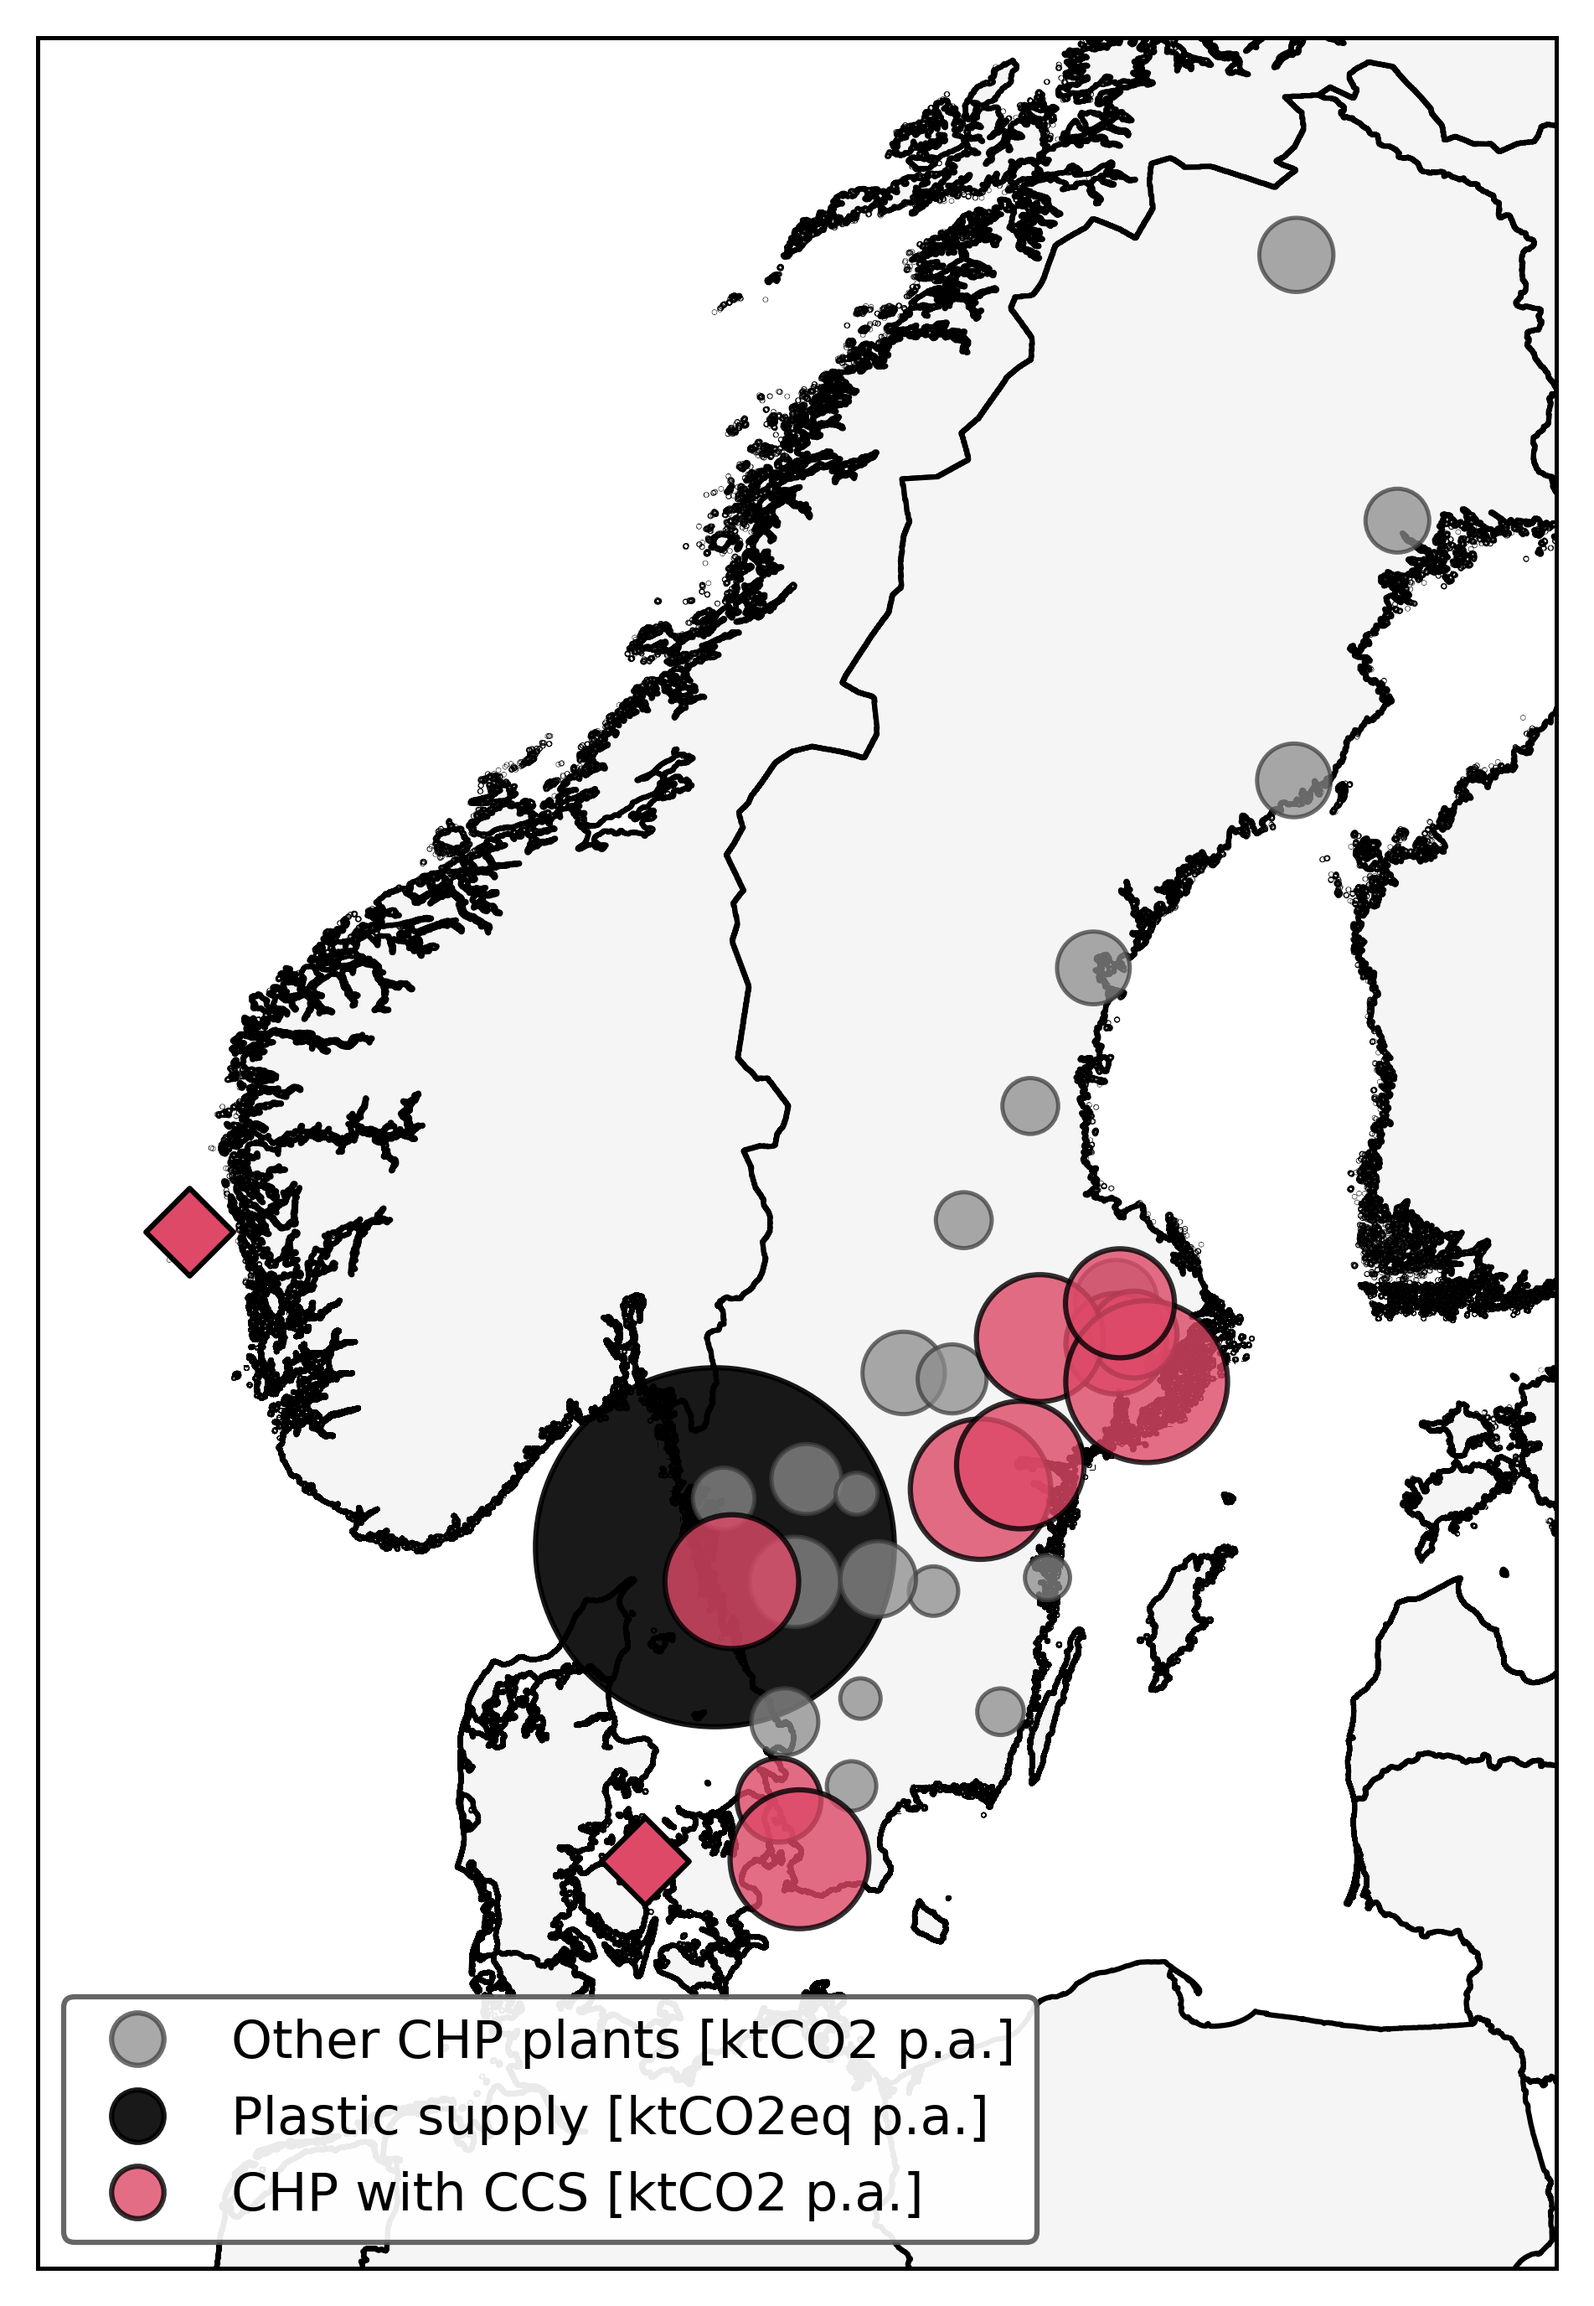
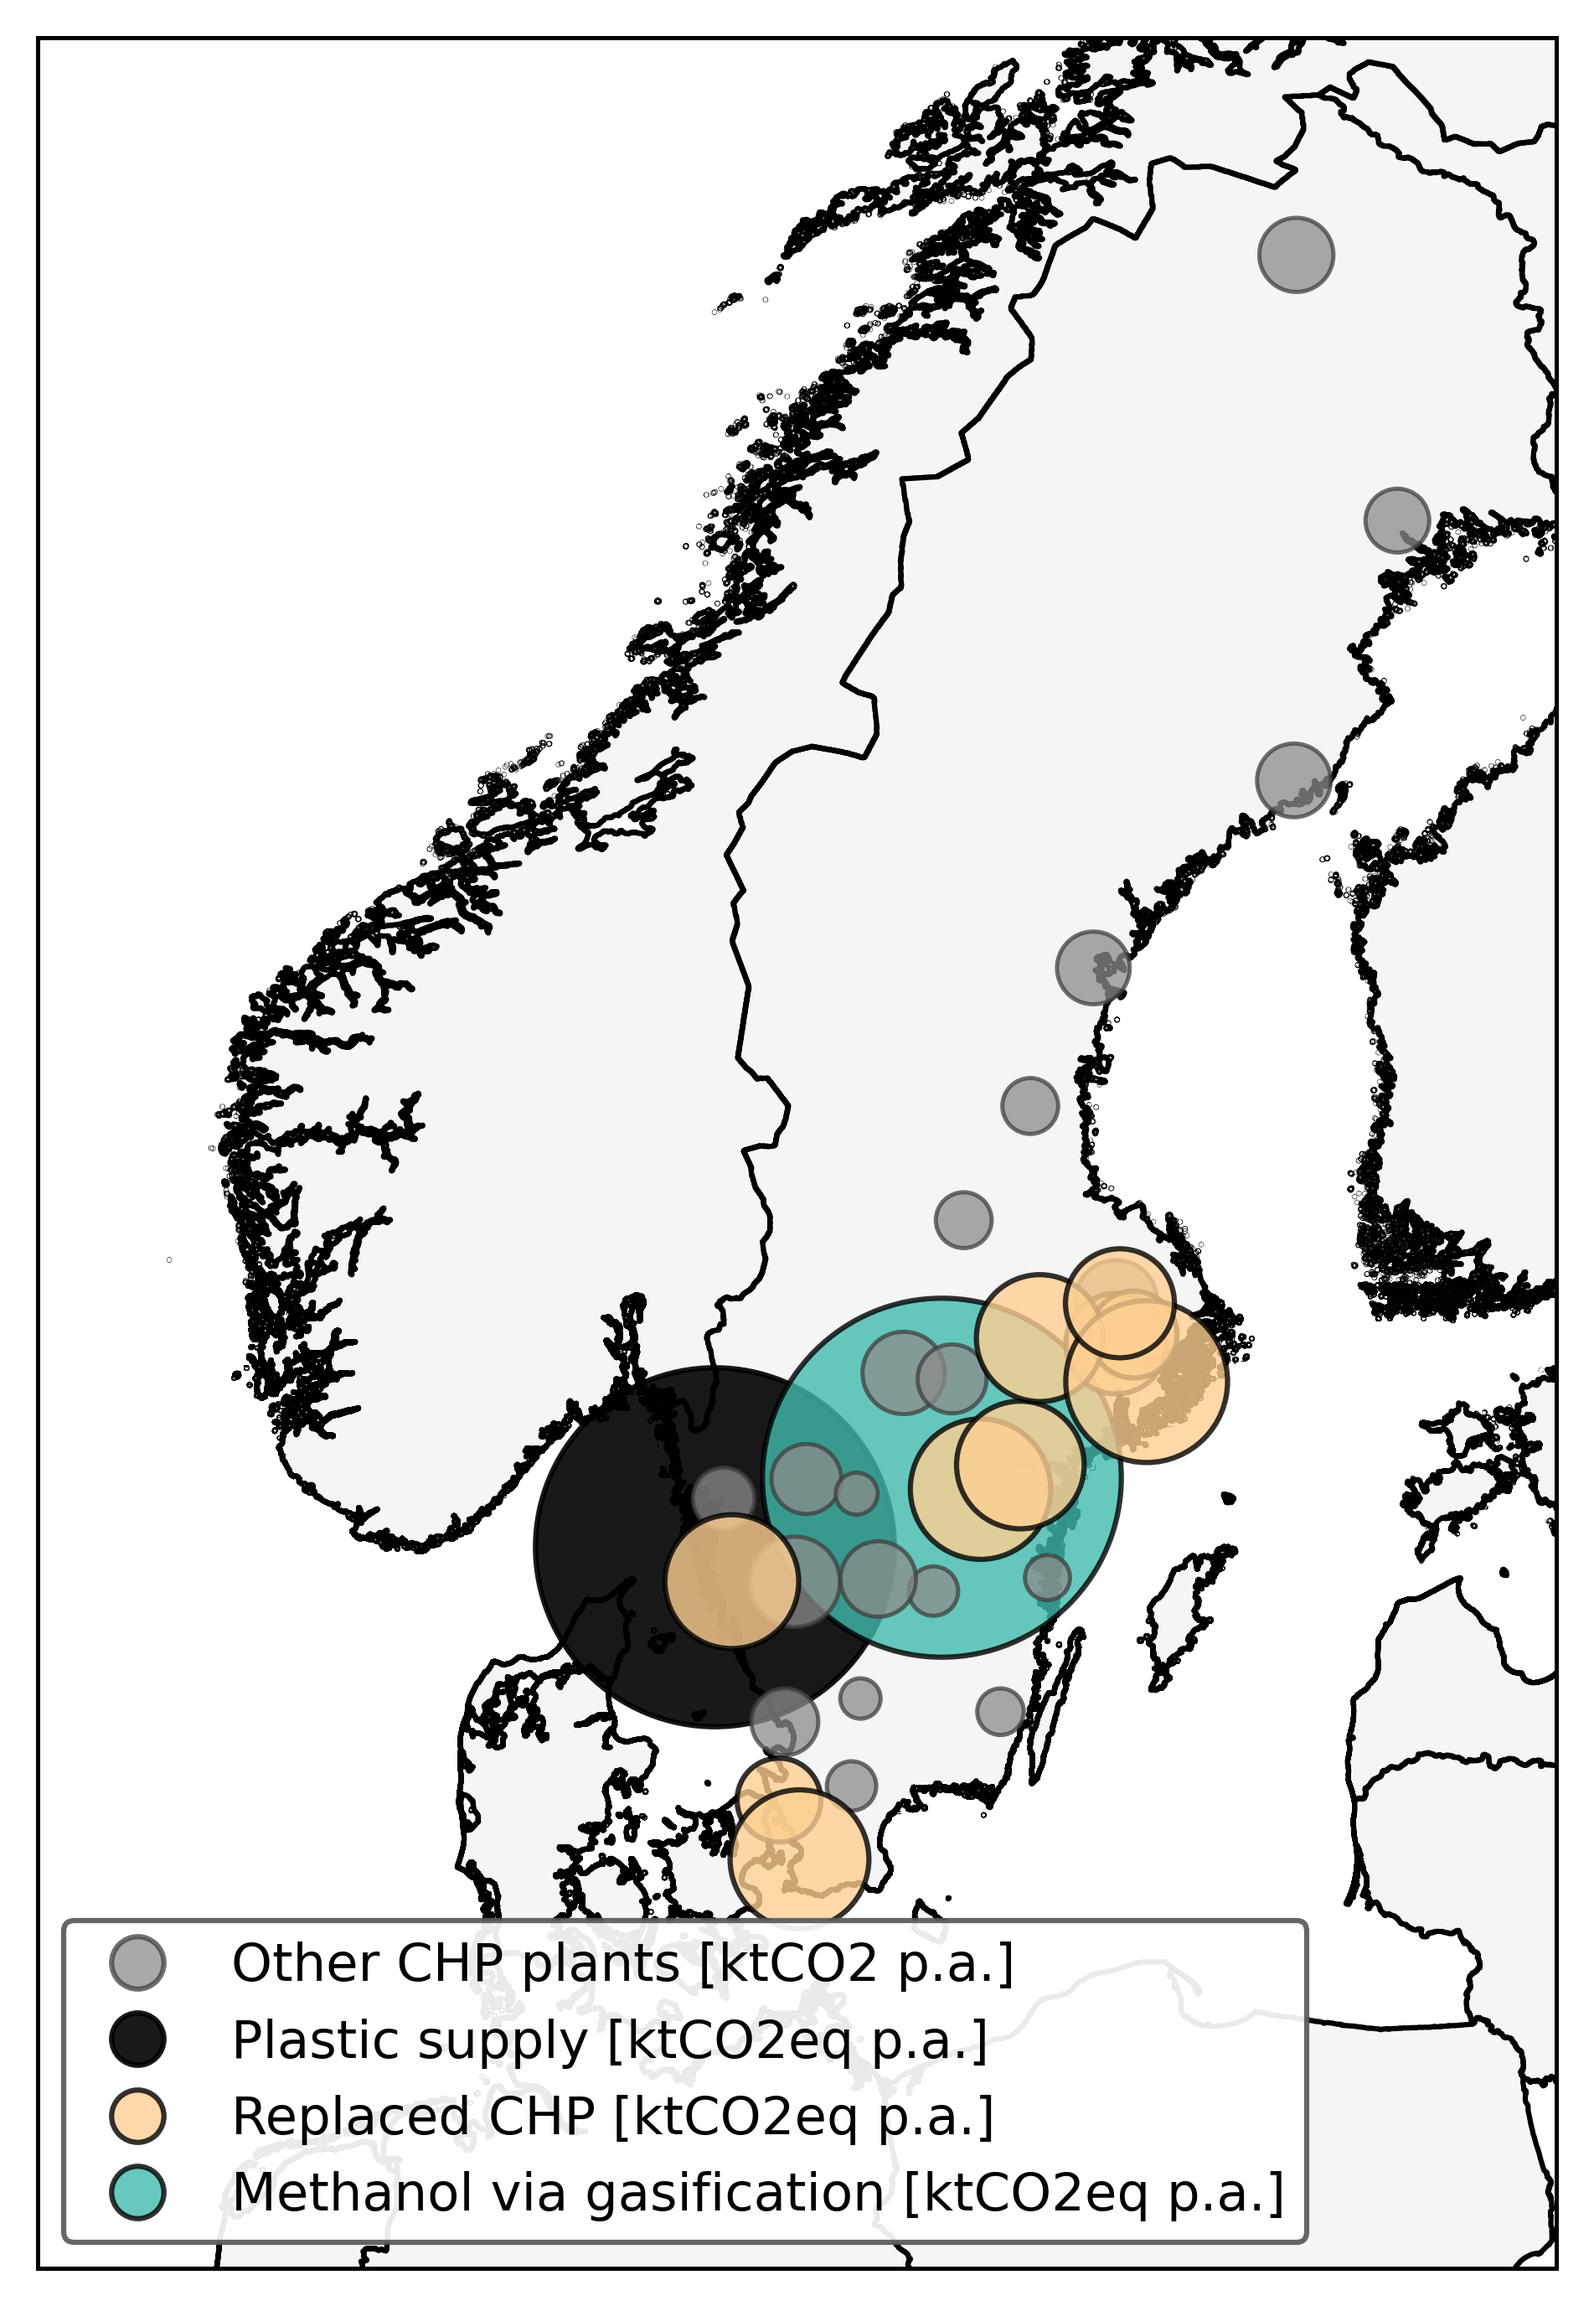
Finalizing

diff --git a/mapping.py b/mapping.py
@@ -10,6 +10,7 @@ MAIN_PLANT_LEGEND_LABELS = {
     "CCU": "CHP with CCU [ktCO2eq p.a.]",
     "gasification": "Replaced CHP [ktCO2eq p.a.]",
 }
+GASIFICATION_HUB_COLOR = "#41BCAE"
 
 
 def _normalize_plant_name(name) -> str:
@@ -103,7 +104,7 @@ def _map_bubble_legend(
     labels.append(MAIN_PLANT_LEGEND_LABELS[mode])
 
     if mode == "gasification":
-        handles.append(_bubble_legend_handle(ccu_color, alpha=0.8))
+        handles.append(_bubble_legend_handle(GASIFICATION_HUB_COLOR, alpha=0.8))
         labels.append("Methanol via gasification [ktCO2eq p.a.]")
 
     if debug:
@@ -197,7 +198,7 @@ def plot_europe(mode="CCS", debug=False):
             15.088126,
             58.528987,
             s=s_val,
-            color=ccu_color,
+            color=GASIFICATION_HUB_COLOR,
             alpha=0.8,
             edgecolor="black",
             linewidth=1,
@@ -258,4 +259,4 @@ def plot_europe(mode="CCS", debug=False):
 
 
 if __name__ == "__main__":
-    plot_europe(mode="CCS")
+    plot_europe(mode="gasification")
